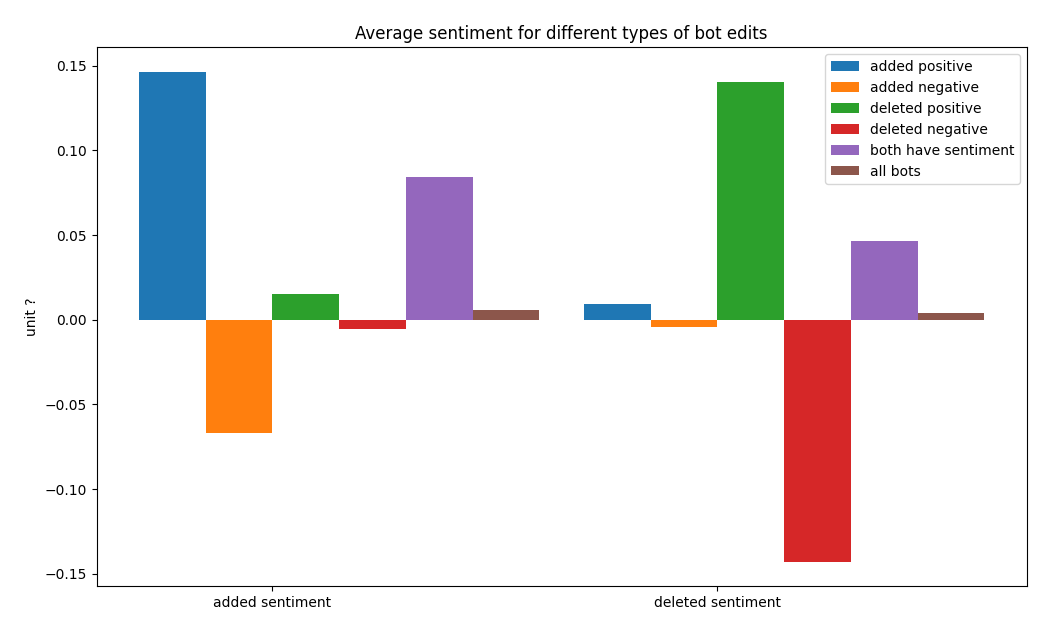
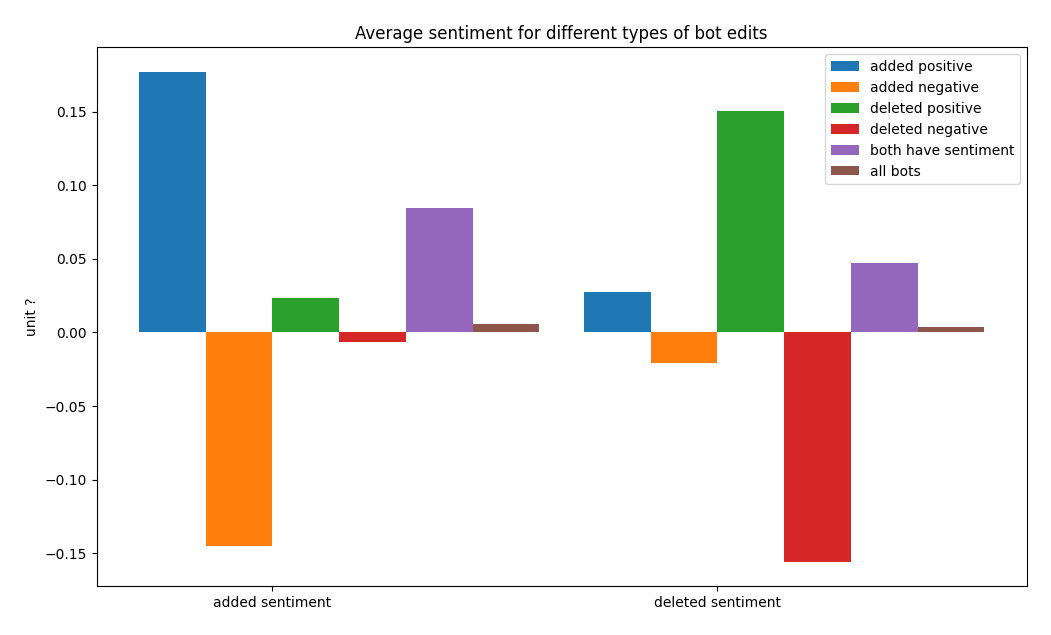
add namespaces that top 500 users edited

diff --git a/nsdb/plot.py b/nsdb/plot.py
@@ -542,6 +542,25 @@ def editTimesUserBots(cursor, i, plotDir, dataDir, dryrun=False):
     else:
         blockedData = [5.51123904, 215.49983126, 4457.78610197, 17759.69208272]
 
+    overFiveHundred = """select avg(min_time)/3600, avg(avg_time)/3600, avg(max_time)/3600, avg(duration)/3600
+    from user_time_stats 
+    join user 
+    on user_time_stats.id = user.id 
+    where user.confirmed is true;"""
+    if not dryrun:
+        cursor.execute(overFiveHundred,)
+        overFiveHundredData = cursor.fetchall()
+        overFiveHundredData = list(*overFiveHundredData)
+        with open(dataDir + str(i) + "-overFiveHundredData.txt", "w") as file:
+            file.write(str(overFiveHundredData))
+    else:
+        overFiveHundredData = [
+            147.03132949,
+            1124.02555881,
+            13976.81447445,
+            45119.61085901,
+        ]
+
     # Numbers of pairs of bars you want
     N = len(columns)
 
@@ -555,9 +574,17 @@ def editTimesUserBots(cursor, i, plotDir, dataDir, dryrun=False):
     width = 0.3
 
     # Plotting
-    plt.bar(ind, userData, width, label="Non blocked users")
     plt.bar(
-        list(map(lambda x: x + width, ind)), blockedData, width, label="Blocked users"
+        ind, overFiveHundredData, width, label="Users with over 500 edits",
+    )
+    plt.bar(
+        list(map(lambda x: x + width, ind)), userData, width, label="Non blocked users",
+    )
+    plt.bar(
+        list(map(lambda x: x + width * 2, ind)),
+        blockedData,
+        width,
+        label="Blocked users",
     )
 
     plt.ylabel("Hours")
@@ -566,7 +593,7 @@ def editTimesUserBots(cursor, i, plotDir, dataDir, dryrun=False):
     # xticks()
     # First argument - A list of positions at which ticks should be placed
     # Second argument -  A list of labels to place at the given locations
-    plt.xticks(list(map(lambda x: x + width / 2, ind)), columns)
+    plt.xticks(list(map(lambda x: x + (width * 2) / 2, ind)), columns)
 
     # Finding the best position for legends and putting it
     plt.legend(loc="best")
@@ -652,7 +679,6 @@ def distributionOfEditsPerNamespace(cursor, i, plotDir, dataDir, dryrun=False):
 
     fig, axs = plt.subplots(2, 2, sharey=True)
     fig.suptitle("Distribution of number of edits per page across name spaces")
-    print(columns, mainspaceData)
     axs[0, 0].set_title("page edits in main space")
     axs[0, 0].bar(columns, mainspaceData)
     axs[0, 1].set_title("page edits in main talk space")
@@ -782,7 +808,7 @@ def sentimentBots(cursor, i, plotDir, dataDir, dryrun=False):
     botsAddedPos = """select avg(edit.added_sentiment),avg(edit.deleted_sentiment)
     from edit join user 
     on edit.user_table_id = user.id 
-    where user.bot is true and edit.added_sentiment > 0 and edit.deleted_length > 0;"""
+    where user.bot is true and edit.added_sentiment > 0 and edit.deleted_length > 2;"""
     if not dryrun:
         cursor.execute(botsAddedPos,)
         botsAddedPosData = cursor.fetchall()
@@ -795,7 +821,7 @@ def sentimentBots(cursor, i, plotDir, dataDir, dryrun=False):
     botsDelPos = """select avg(edit.added_sentiment),avg(edit.deleted_sentiment)
     from edit join user 
     on edit.user_table_id = user.id 
-    where user.bot is true and edit.deleted_sentiment > 0 and edit.added_length > 0 ;"""
+    where user.bot is true and edit.deleted_sentiment > 0 and edit.added_length > 2;"""
     if not dryrun:
         cursor.execute(botsDelPos,)
         botsDelPosData = cursor.fetchall()
@@ -808,7 +834,7 @@ def sentimentBots(cursor, i, plotDir, dataDir, dryrun=False):
     botsAddNeg = """select avg(edit.added_sentiment),avg(edit.deleted_sentiment)
     from edit join user 
     on edit.user_table_id = user.id 
-    where user.bot is true and edit.added_sentiment < 0 and edit.deleted_length > 0 ;"""
+    where user.bot is true and edit.added_sentiment < 0 and edit.deleted_length > 2;"""
     if not dryrun:
         cursor.execute(botsAddNeg,)
         botsAddNegData = cursor.fetchall()
@@ -821,7 +847,7 @@ def sentimentBots(cursor, i, plotDir, dataDir, dryrun=False):
     botsDelNeg = """select avg(edit.added_sentiment),avg(edit.deleted_sentiment)
     from edit join user 
     on edit.user_table_id = user.id 
-    where user.bot is true and edit.deleted_sentiment < 0 and edit.added_length > 0 ;"""
+    where user.bot is true and edit.deleted_sentiment < 0 and edit.added_length > 2;"""
     if not dryrun:
         cursor.execute(botsDelNeg,)
         botsDelNegData = cursor.fetchall()
@@ -918,6 +944,21 @@ def profanityAll(cursor, i, plotDir, dataDir, dryrun):
     plt.figure()
 
     data = []
+
+    overFiveHundred = """select avg(edit.ins_vulgarity)
+    from edit join user
+    on edit.user_table_id = user.id
+    where user.blocked is null and user.bot is null and confirmed is true;"""
+    if not dryrun:
+        cursor.execute(overFiveHundred,)
+        overFiveHundredData = cursor.fetchall()
+        overFiveHundredData = overFiveHundredData[0][0]
+        with open(dataDir + str(i) + "-overFiveHundred.txt", "w") as file:
+            file.write(str(overFiveHundredData))
+    else:
+        overFiveHundredData = 0.0187
+
+    data.append(("users with\n>500 edits", overFiveHundredData))
 
     users = """select avg(edit.ins_vulgarity)
     from edit
@@ -1048,19 +1089,92 @@ def averageAll(cursor, i, plotDir, dataDir, dryrun):
             0.0055170703440406196,
         ]
 
-    fig, axs = plt.subplots(1, 3)
+    fig, axs = plt.subplots(1, 3, gridspec_kw={"width_ratios": [2, 5, 14]})
 
     fig.suptitle("Average of all integer edit fields")
     # axs[0, 0].set_title("user edits in main space")
     axs[0].bar(columns[:2], data[:2])
+    axs[0].tick_params(labelrotation=90)
     # axs[1].set_title("bot edits in main space")
     axs[1].bar(columns[2:7], data[2:7])
     axs[1].tick_params(labelrotation=90)
     # axs[0, 2].set_title("blocked edits in main space")
     axs[2].bar(columns[7:], data[7:])
     axs[2].tick_params(labelrotation=90)
-    plt.gcf().set_size_inches(20, 10)
+    plt.gcf().set_size_inches(10, 5)
 
+    plt.savefig(figname, bbox_inches="tight", pad_inches=0.25)
+
+
+def namespacesEditedByTopFiveHundred(cursor, i, plotDir, dataDir, dryrun):
+    figname = plotDir + str(i)
+    plt.figure()
+    # https://stackoverflow.com/questions/28620904/how-to-count-unique-set-values-in-mysql
+    query = """SELECT set_list.namespaces, COUNT(user.namespaces) FROM
+    (SELECT TRIM("'" FROM SUBSTRING_INDEX(SUBSTRING_INDEX(
+    (SELECT TRIM(')' FROM SUBSTR(column_type, 5)) FROM information_schema.columns 
+    WHERE table_name = 'user' AND column_name = 'namespaces'),
+    ',', @r:=@r+1), ',', -1)) AS namespaces
+    FROM (SELECT @r:=0) deriv1,
+    (SELECT ID FROM information_schema.COLLATIONS) deriv2
+    HAVING @r <= 
+    (SELECT LENGTH(column_type) - LENGTH(REPLACE(column_type, ',', ''))
+    FROM information_schema.columns
+    WHERE table_name = 'user' AND column_name = 'namespaces')) set_list
+    LEFT OUTER JOIN (SELECT namespaces FROM user
+        where bot is null order by number_of_edits desc limit 500) user
+    ON FIND_IN_SET(set_list.namespaces, user.namespaces) > 0
+    GROUP BY set_list.namespaces
+    ;"""
+    if not dryrun:
+        cursor.execute(query,)
+        data = cursor.fetchall()
+        data = list(map(lambda x: (str(x[0]), x[1]), data))
+        with open(dataDir + str(i) + ".txt", "w") as file:
+            file.write(str(data))
+    else:
+        data = [
+            ("0", 500),
+            ("1", 500),
+            ("2", 499),
+            ("3", 500),
+            ("4", 499),
+            ("5", 494),
+            ("6", 475),
+            ("7", 351),
+            ("8", 102),
+            ("9", 266),
+            ("10", 497),
+            ("11", 481),
+            ("12", 280),
+            ("13", 292),
+            ("14", 492),
+            ("15", 450),
+            ("-1", 0),
+            ("-2", 0),
+            ("100", 444),
+            ("101", 267),
+            ("118", 439),
+            ("119", 258),
+            ("710", 31),
+            ("711", 9),
+            ("828", 169),
+            ("829", 159),
+            ("108", 229),
+            ("109", 117),
+            ("446", 0),
+            ("447", 31),
+            ("2300", 0),
+            ("2301", 2),
+            ("2302", 0),
+            ("2303", 0),
+        ]
+
+    plt.title("Namespaces that the top 500 users have edited")
+    plt.xticks(rotation=90)
+    plt.ylabel("? (log)")
+    # plt.yscale("log")
+    plt.bar(*zip(*data))
     plt.savefig(figname, bbox_inches="tight", pad_inches=0.25)
 
 
@@ -1150,6 +1264,10 @@ def plot(plotDir: str = "../plots/", dryrun=False):
     # 15
     i = i + 1
     # averageAll(cursor, i, plotDir, dataDir, dryrun)
+
+    # 16
+    i = i + 1
+    namespacesEditedByTopFiveHundred(cursor, i, plotDir, dataDir, dryrun)
 
     if not dryrun:
         cursor.close()
